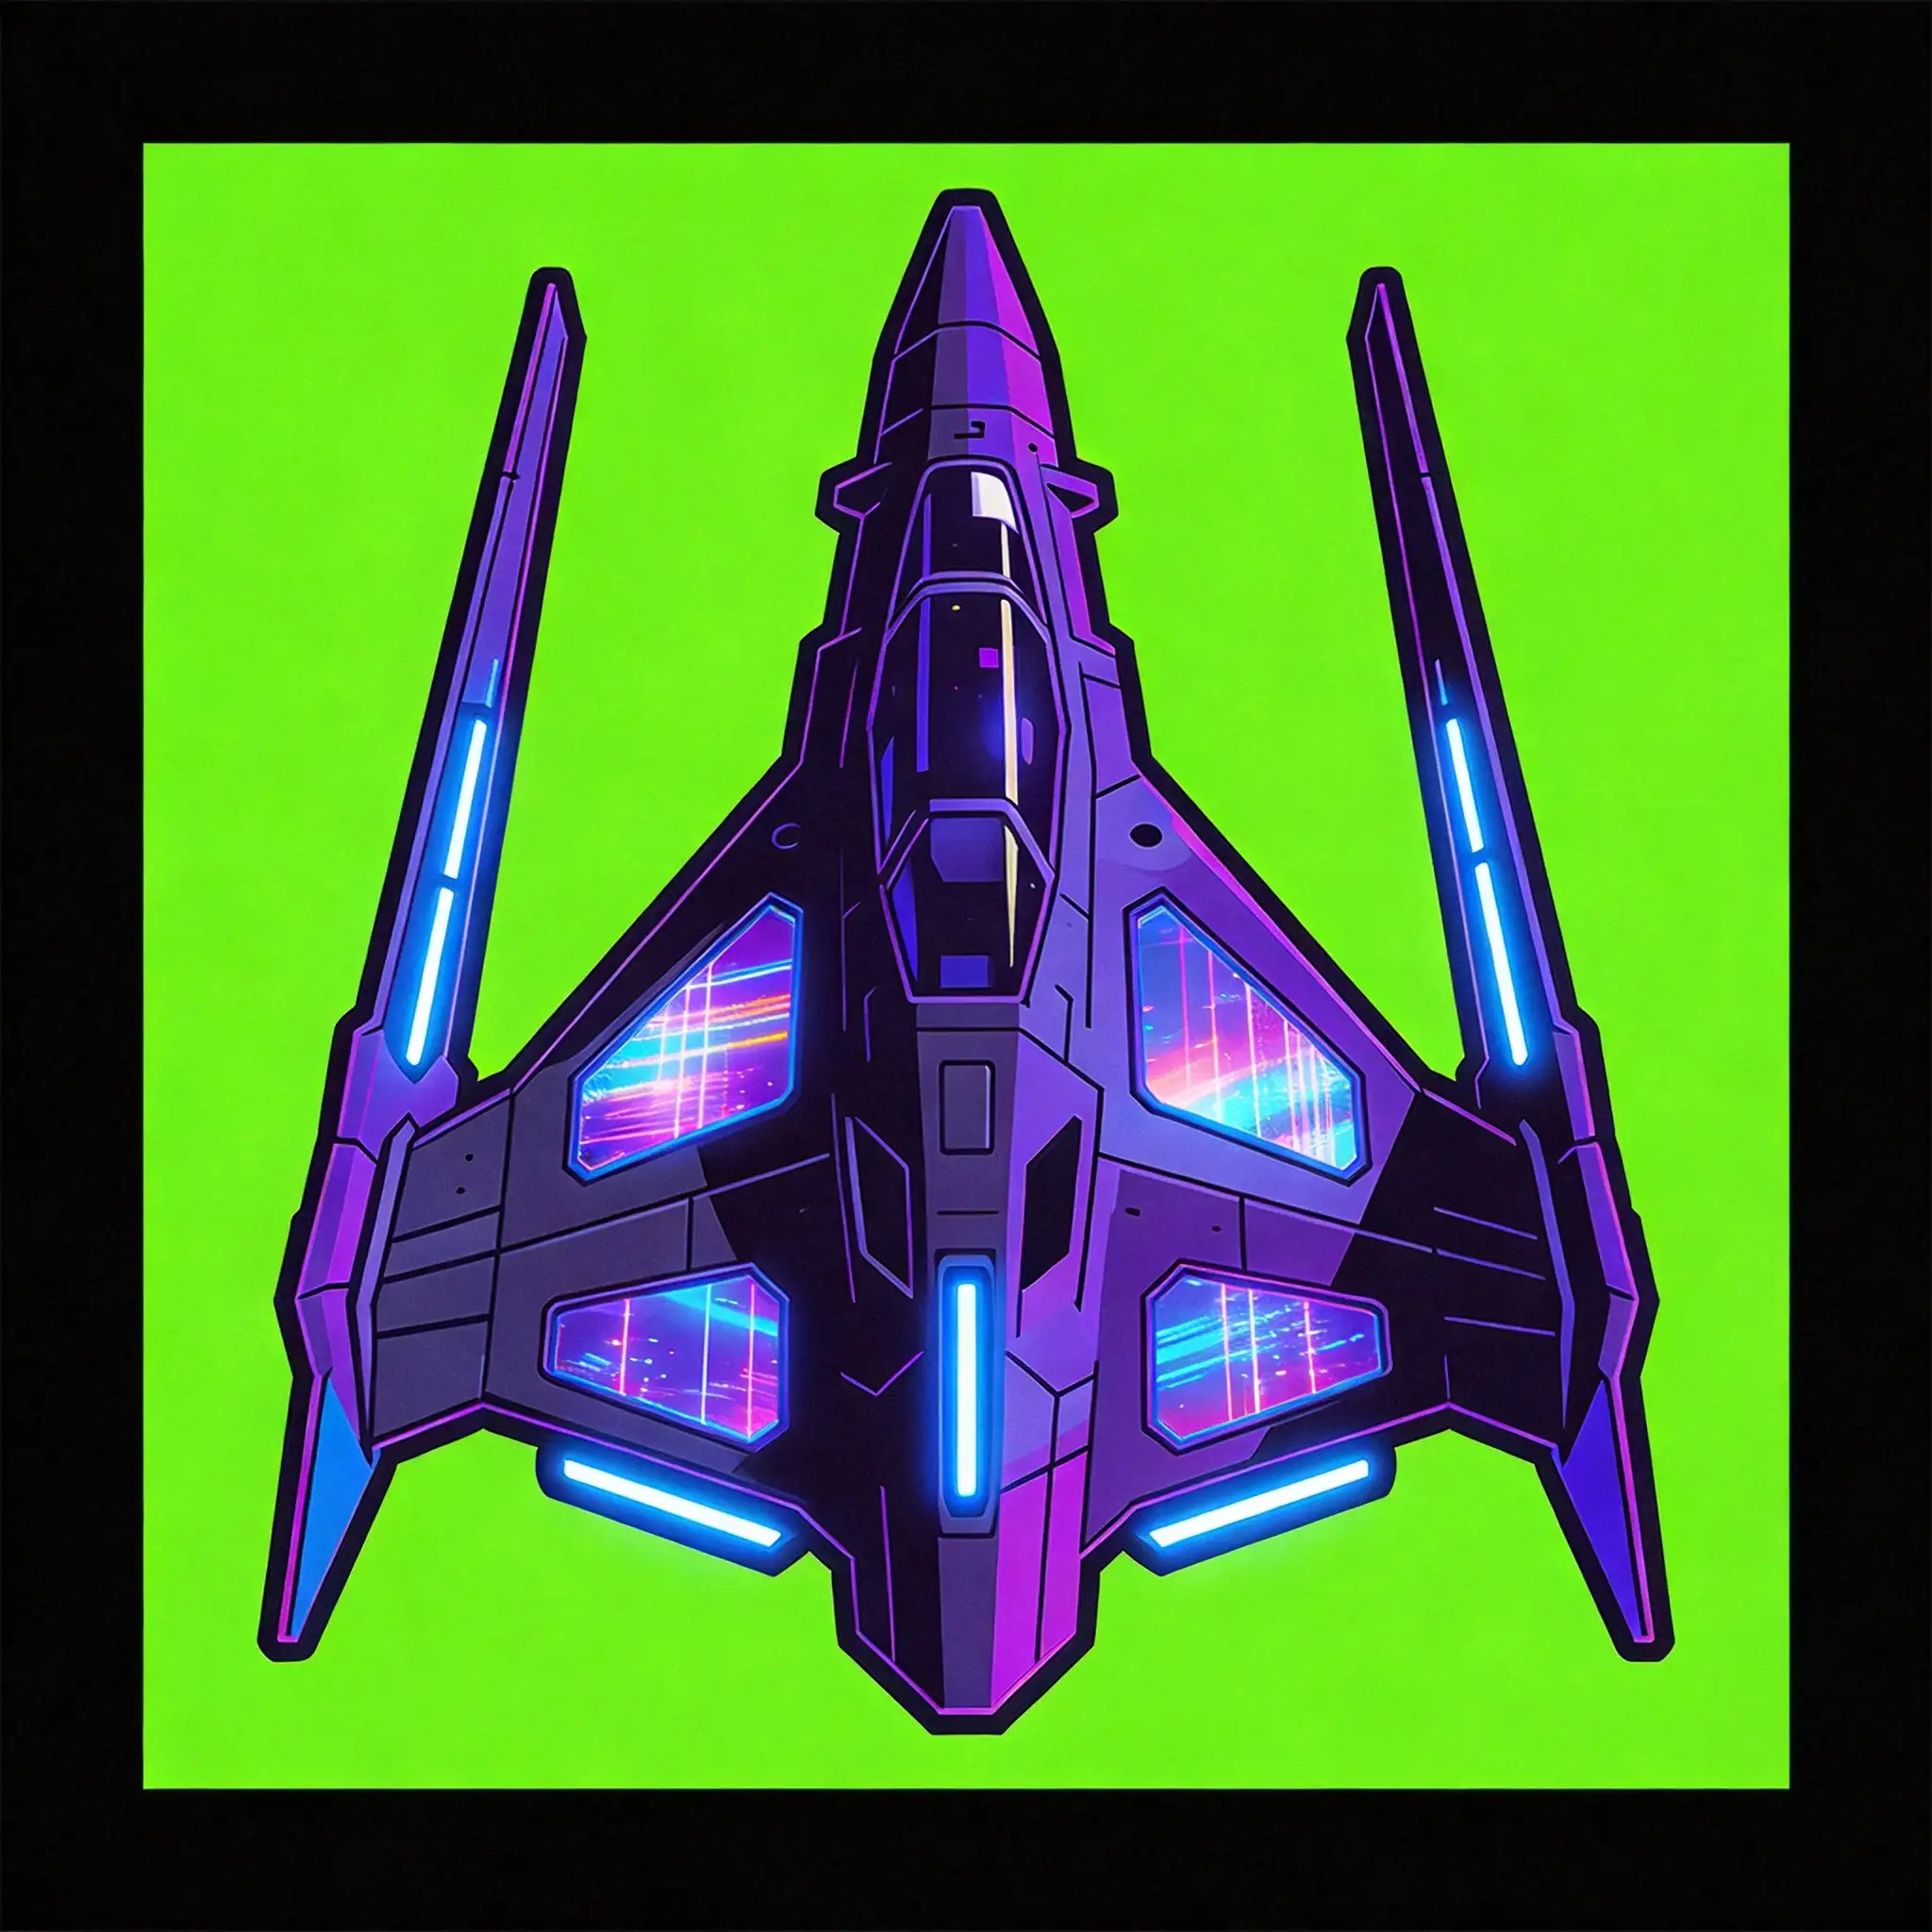
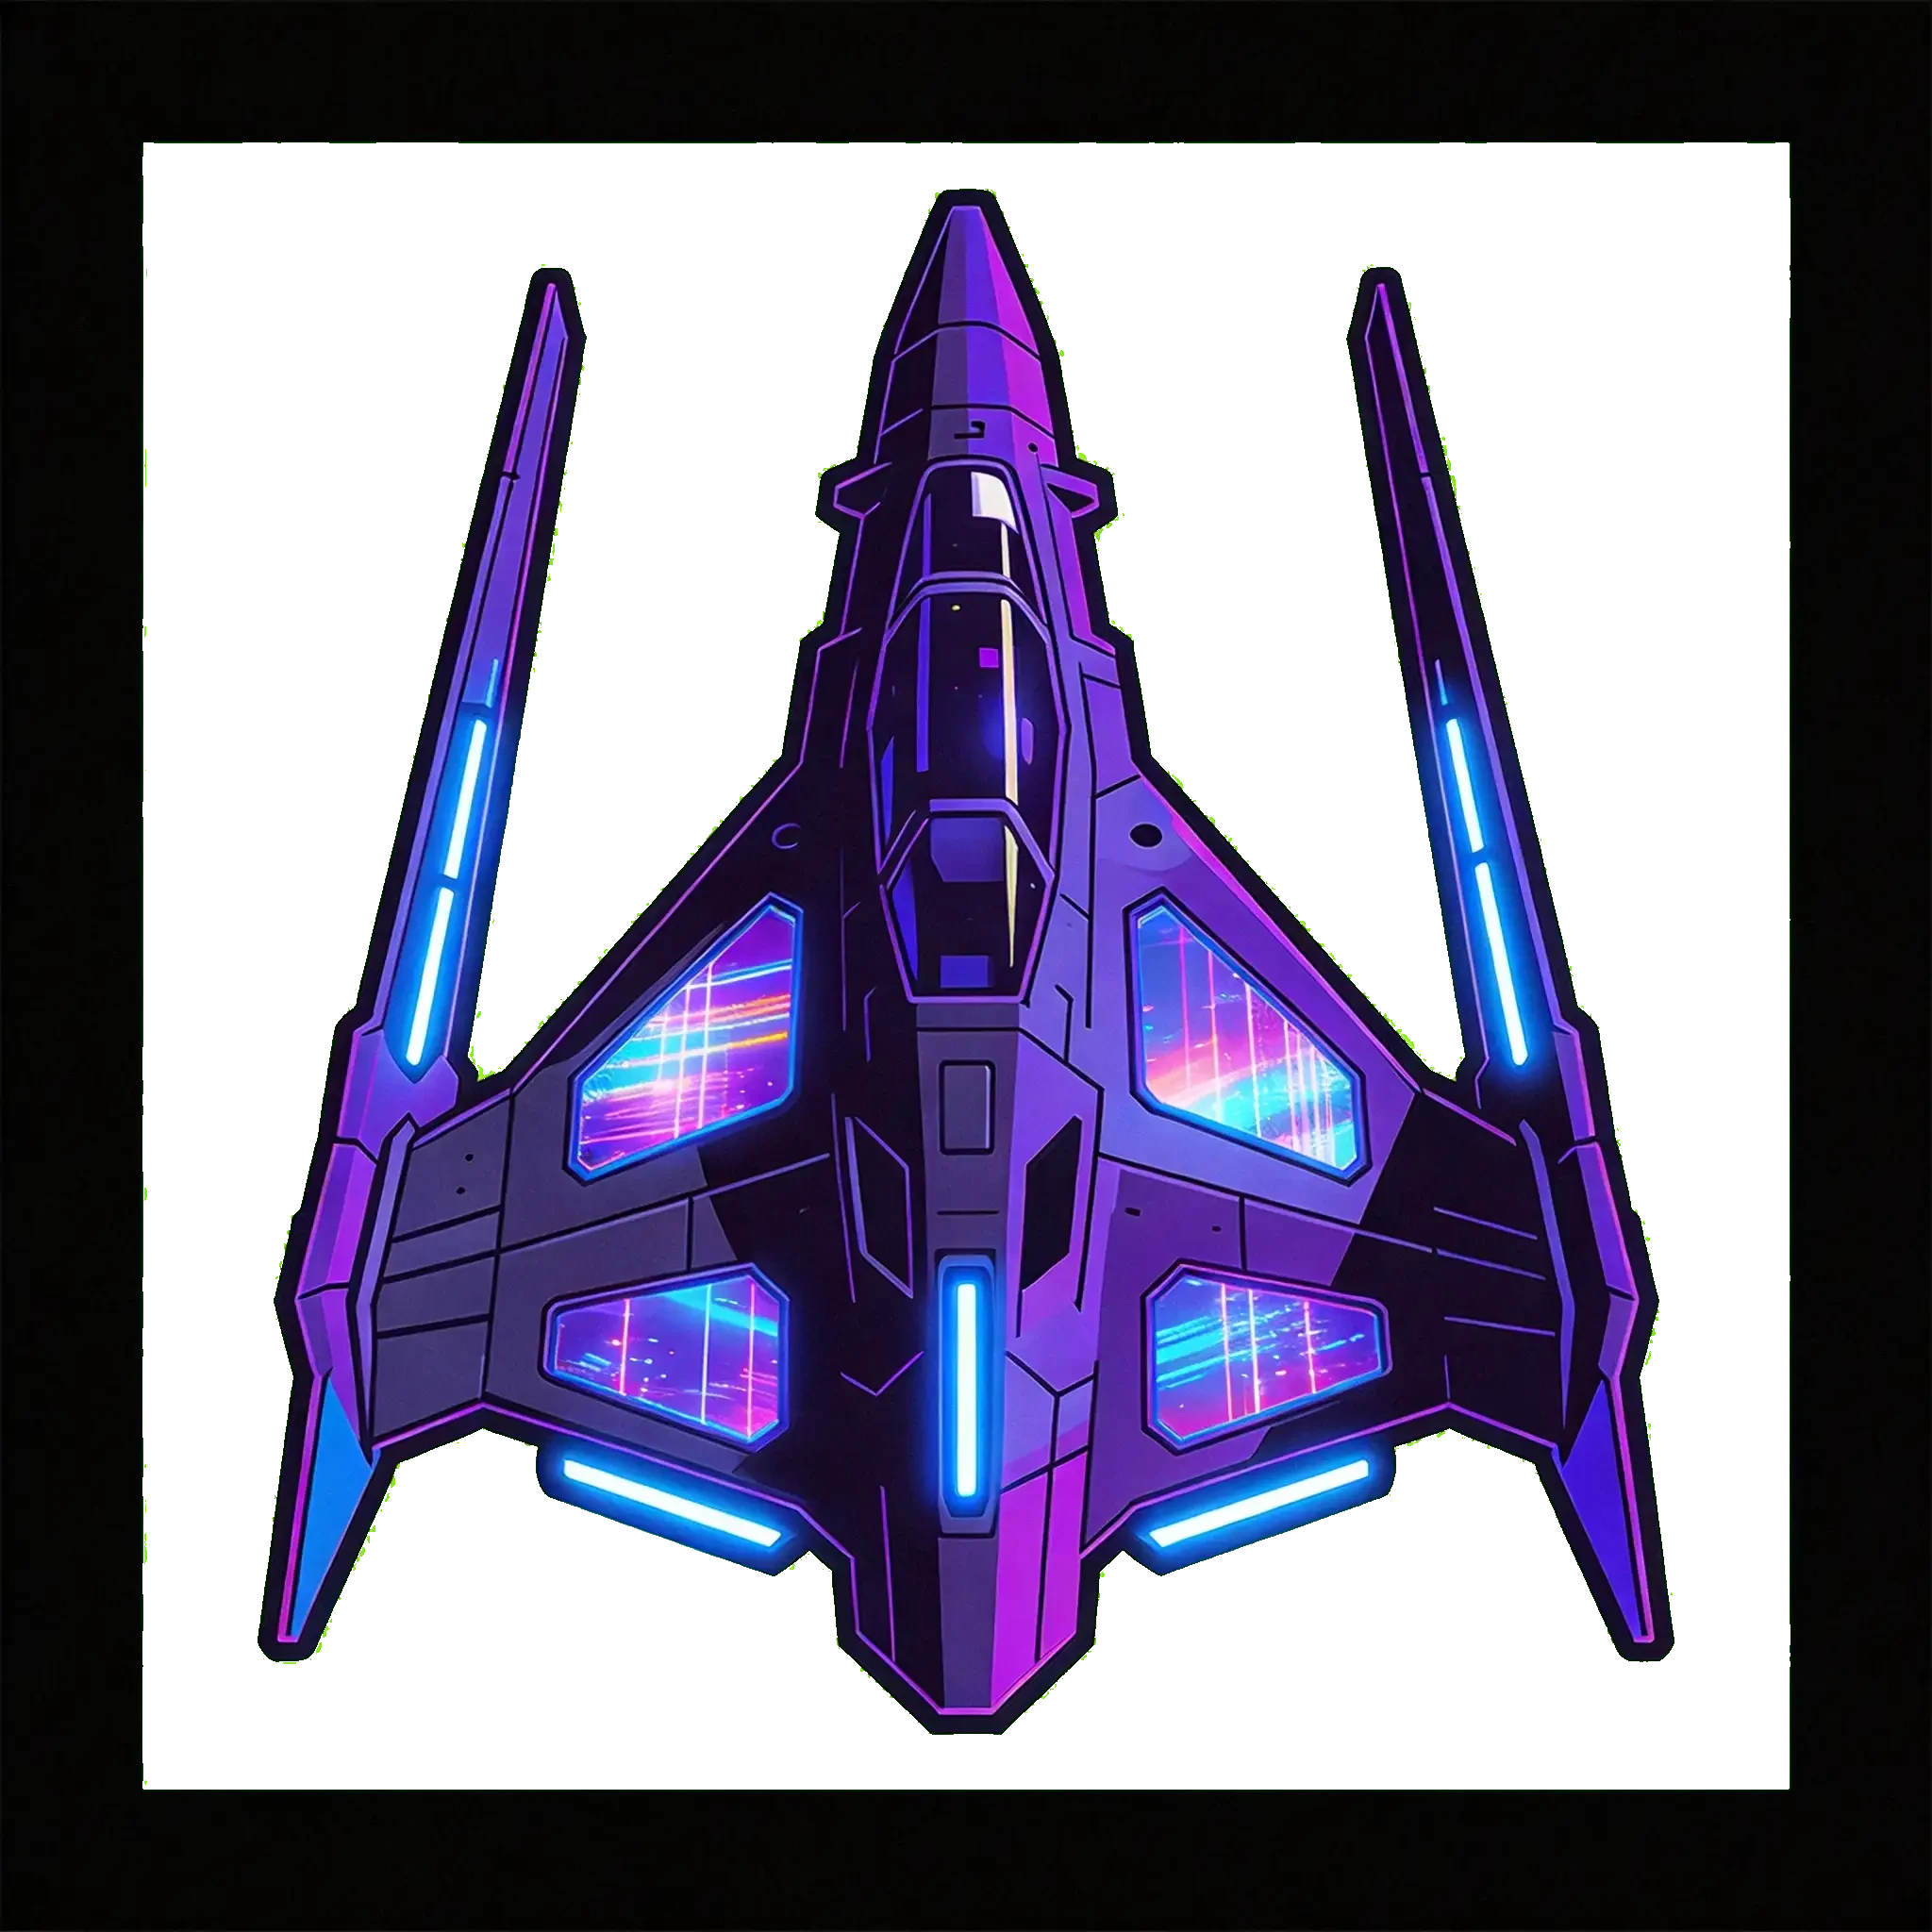
feat: 使用 HSV 色彩空间去除玩家战机绿色背景
Coze-Commit-Type: user
Coze-User-ID: 930658547675948
Coze-Conversation-ID: 34120710536194

diff --git a/src/renderer.js b/src/renderer.js
@@ -93,8 +93,11 @@ export class Renderer {
       const x = player.x - size / 2;
       const y = player.y - size / 2;
       
-      ctx.shadowColor = '#8844ff';
-      ctx.shadowBlur = 20;
+      // 添加发光效果（只在图片非透明区域）
+      ctx.shadowColor = '#aa66ff';
+      ctx.shadowBlur = 25;
+      ctx.shadowOffsetX = 0;
+      ctx.shadowOffsetY = 0;
       ctx.drawImage(this.playerImage, x, y, size, size);
       ctx.shadowBlur = 0;
     } else {